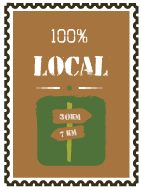
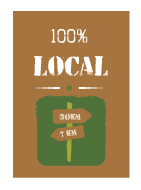
changes

Changed region(s): [[0.0284, 0.0, 0.9929, 1.0]]

diff --git a/themes/yaka/css/product_list.css b/themes/yaka/css/product_list.css
@@ -39,12 +39,12 @@ ul.product_list .color-list-container {
 ul.product_list .product-image-container {
   text-align: center; }
   ul.product_list .product-image-container img {
-    margin: 0 auto;  border-style: solid;
-border-width: 7px;
+    margin: 0 auto;  border: none;
+/*border-width: 7px;
 -moz-border-image: url(../img/borderTimbre.png) 12 round;
 -webkit-border-image: url(../img/borderTimbre.png) 12 round;
 -o-border-image: url(../img/borderTimbre.png) 12 round;
-border-image: url(../img/borderTimbre.png) 12  round; }
+border-image: url(../img/borderTimbre.png) 12  round;*/ }
   ul.product_list .product-image-container .quick-view-wrapper-mobile {
     display: none; }
     ul.product_list .product-image-container .quick-view-wrapper-mobile .quick-view-mobile {
@@ -167,7 +167,7 @@ ul.product_list .functional-buttons div.compare a.checked:before {
 Product list(Grid) Styles
 ********************************************************/
 ul.product_list.grid > li {
-  padding-bottom: 20px;
+  padding-bottom: 10px;
   text-align: center; }
   @media (min-width: 480px) and (max-width: 767px) {
     ul.product_list.grid > li {
@@ -176,14 +176,8 @@ ul.product_list.grid > li {
   ul.product_list.grid > li .product-container {
     height: 300px;
     background:rgba(105, 74, 28, 0.1);
-    padding: 0;
-     border-style: solid;
-border-width: 7px;
--moz-border-image: url(../img/borderTimbre.png) 12 round;
--webkit-border-image: url(../img/borderTimbre.png) 12 round;
--o-border-image: url(../img/borderTimbre.png) 12 round;
-border-image: url(../img/borderTimbre.png) 12  round;
-border-image-outset: 10px;
+    padding: 7px;
+     border:none;
     position: relative; }
      ul.product_list.grid > li.hovered .product-container {
     background:rgba(108, 162, 44, 0.7);
@@ -222,8 +216,8 @@ border-image-outset: 10px;
     ul.product_list.grid > li .product-container .product-desc {
       display: none; }
     ul.product_list.grid > li .product-container .content_price {
-      padding-bottom: 0px;    position: absolute;
-    bottom: 0px;    width: 100%;
+      padding-bottom: 0px;    position: absolute;left:0px;
+    bottom: 10px;    width: 100%;
       line-height: 21px; }
     ul.product_list.grid > li .product-container .old-price,
     ul.product_list.grid > li .product-container .price,
@@ -431,7 +425,7 @@ Product list(Index page) Styles
 }
 .button.lnk_view{font-family: octin,Arial, Helvetica, sans-serif;color: #333;padding: 0;border: 1px solid;font-size: 17px;display:inline-block;border: 1px solid black !important;}
 
-.button-container{ position: absolute;top: 160px;left: 0;right: 0;height:50px;}
+.button-container{ position: absolute;top: 103px;left: 0;right: 0;height:50px;}
 
 .fa-cart:before {content: "\f07a";display: block;font-family: "FontAwesome";font-size: 17px;width: 100%;text-align: center; }
 ul.product_list.grid > li .product-container .button-container .ajax_add_to_cart_button, ul.product_list.grid > li .product-container .button-container span.button, ul.product_list.grid > li .product-container .button-container .lnk_view

diff --git a/themes/yaka/css/global.css b/themes/yaka/css/global.css
@@ -1454,8 +1454,7 @@ input[type="number"]::-webkit-outer-spin-button, input[type="number"]::-webkit-i
   .form-control:focus {
     border-color: #66afe9;
     outline: 0;
-    -webkit-box-shadow: inset 0 1px 1px rgba(0, 0, 0, 0.075), 0 0 8px rgba(102, 175, 233, 0.6);
-    box-shadow: inset 0 1px 1px rgba(0, 0, 0, 0.075), 0 0 8px rgba(102, 175, 233, 0.6); }
+     }
   .form-control[disabled], .form-control[readonly], fieldset[disabled] .form-control {
     cursor: not-allowed;
     background-color: #eeeeee; }
@@ -8413,31 +8412,34 @@ body#index .herbe{
 }
 
 header .row #header_logo{
-  padding-top:0px;
+  padding-top:10px;
+  margin-top: -20px;
       width: 328px;
     height: 171px;
-  background:  url('../img/logo-yakaboutique.png') no-repeat ;
+  background:  url('../img/bg-logo.png') no-repeat ;
 }
 
 header .row #search_block_top{
-  padding-top:25px;
-  width: 371px;
-  height: 94px;
-  background:  url('../img/bg-recherche.png') no-repeat ;
+  padding-top:0px;
+  /*width: 371px;*/
+  /*height: 94px;*/
+  /*background:  url('../img/bg-recherche.png') no-repeat ;*/
 }
 header .row .shopping_cart{
   padding-top:25px;
   width: 181px;
-  height: 174px;
-  background:  url('../img/bg-panier.png') no-repeat ;
+  height: 110px;
+  background:  url('../img/bg-panier.png') no-repeat 0px -62px;
 }
 header .row .shopping_cart a{
-    width: 100%;
+    /*width: 100%;*/
     position: relative;
     display: inline-block;
     text-align: center;
     margin-top: 10px;
-
+  float:right;
+}header .row .shopping_cart:hover a{
+    color:#db007b;
 }
 #block_top_menu{
   z-index:9999999;
@@ -8480,25 +8482,29 @@ header .row .shopping_cart a{
 
 .border-timbre{
   background:rgba(105, 74, 28, 0.1);
-  border-style: solid;
+  border:none;
+ /* border-style: solid;
 border-width: 20px;
 -moz-border-image: url(../img/borderTimbre.png) 12 round;
 -webkit-border-image: url(../img/borderTimbre.png) 12 round;
 -o-border-image: url(../img/borderTimbre.png) 12 round;
 border-image: url(../img/borderTimbre.png) 12  round;
-      border-image-outset: 10px;
+      border-image-outset: 10px;*/
 
 }
 .pb-right-column form{
+  border:none;
+  padding-bottom:20px;
+  padding-top: 10px;
   background:rgba(105, 74, 28, 0.1);
-  border-style: solid;
+  /*border-style: solid;*/
   box-sizing:border-box;
-border-width: 10px;
+/*border-width: 10px;
 -moz-border-image: url(../img/borderTimbre.png) 12 round;
 -webkit-border-image: url(../img/borderTimbre.png) 12 round;
 -o-border-image: url(../img/borderTimbre.png) 12 round;
 border-image: url(../img/borderTimbre.png) 12  round;
-      border-image-outset: 0px;
+      border-image-outset: 0px;*/
 
 }
 .border-timbre2{

diff --git a/themes/yaka/css/modules/blocksearch/blocksearch.css b/themes/yaka/css/modules/blocksearch/blocksearch.css
@@ -1,10 +1,15 @@
 #search_block_top {
-    top: 75px;
-    left:35px;
+    top: 100px;
+    left:20px;
+    padding-left: 0px;padding-right: 0px;
   padding-top: 50px; }
   #search_block_top #searchbox {
-    float: left; border:none;
+    float: left; border:none;text-indent:0px;padding-left:0;
     width: 100%; }
+  #search_block_top #searchbox:hover {
+   /*  border-bottom:1px solid white;*/ }
+  #search_block_top #searchbox .search_query:focus {
+     border:1px solid white; outline:0 !important;text-indent:20px;}
   #search_block_top .btn.button-search {
     background: none;
     display: block;
@@ -26,17 +31,17 @@
       width: 100%;
       text-align: center; }
     #search_block_top .btn.button-search:hover {
-      color: #6f6f6f; }
+      /*color: #6f6f6f*/; }
   #search_block_top #search_query_top {
     display: inline;
-    padding: 0px 50px 0px 13px;
+    padding: 0px 50px 0px 0px;
     height: 45px;
     background: none;
     outline: none;
     border: none;
     color:white;
     font-family:'octin';
-    font-size:30px;
+    font-size:26px;
     margin-right: 1px; }
   #search_block_top #search_query_top:focus {
     

diff --git a/themes/yaka/css/modules/blockcart/blockcart.css b/themes/yaka/css/modules/blockcart/blockcart.css
@@ -4,12 +4,23 @@
 #header .shopping_cart {
   position: relative;
   float: right;
-  padding-top: 50px; }
+  padding: 45px 30px 0px 30px; }
   #header .shopping_cart .imagepannier{
-  position: absolute;
-left: 37px;bottom : 25px;
-background:url(../../../img/pannier.png);
-width:110px;height:106px;}
+float:left;
+    color : #322406;
+padding: 16px 0px 0px 0px;
+/*background:url(../../../img/pannier.png);*/
+width:50px;height:50px;} 
+  #header .shopping_cart:hover .imagepannier{
+    color : #db007b;
+} 
+#header .shopping_cart .imagepannier:before{
+    content: "\f07a";
+    display: block;
+    font-family: "FontAwesome";
+    font-size: 40px;
+    width: 100%;
+    text-align: center;}
 .totalpricecartheader{display:block;}
 /*  #header .shopping_cart > a:first-child:after {
     content: "\f0d7";

diff --git a/themes/yaka/css/product.css b/themes/yaka/css/product.css
@@ -33,16 +33,16 @@ a.fancybox-nav {
   position: relative;
   display: block;
   cursor: pointer;
-  padding: 5px;
+  /*padding: 5px;*/
   background:rgba(105, 74, 28, 0.1);
-  border-style: solid;
+  border: none;
   box-sizing:border-box;
-border-width: 10px;
+/*border-width: 10px;
 -moz-border-image: url(../img/borderTimbre.png) 12 round;
 -webkit-border-image: url(../img/borderTimbre.png) 12 round;
 -o-border-image: url(../img/borderTimbre.png) 12 round;
 border-image: url(../img/borderTimbre.png) 12  round;
-      border-image-outset: 0px; }
+      border-image-outset: 0px; */}
   @media (max-width: 767px) {
     .pb-left-column #image-block {
       width: 280px;

diff --git a/themes/yaka/css/modules/homeslider/homeslider.css b/themes/yaka/css/modules/homeslider/homeslider.css
@@ -35,7 +35,7 @@
     padding: 80px 80px;
     cursor: pointer; }
     #homepage-slider .homeslider-description h2 {
-      font-size: 3.7em;
+      font-size: 24px;
       display:inline-block;
       color:#322406;
       background:#6ca22c;
@@ -52,7 +52,7 @@
       color: white; }
     #homepage-slider .homeslider-description button {
       margin-left:-20px;
-      font-size: 1.2em;
+      font-size: 16px;
       font-family: 'hvd';
       text-transform: uppercase;
       background:#6ca22c;
